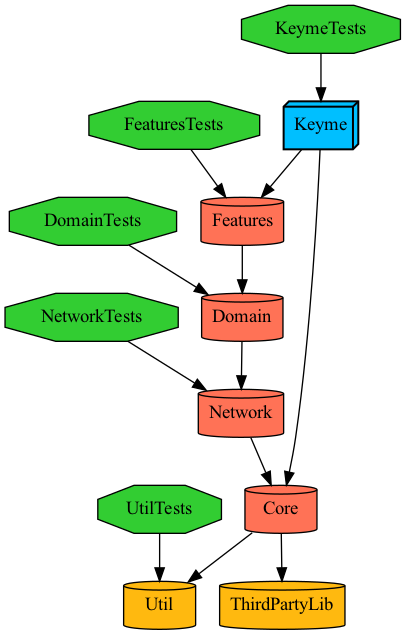
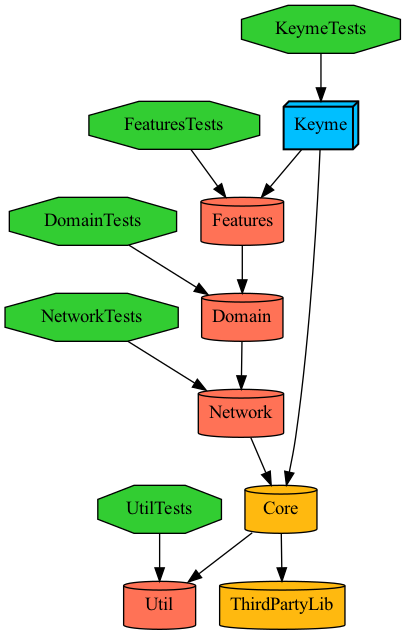
fix #10: Core 모듈 framework 변경

Changed region(s): [[0.2956, 0.8976, 0.5025, 1.0], [0.5911, 0.748, 0.798, 0.8378]]

diff --git a/Projects/Core/Util/Project.swift b/Projects/Core/Util/Project.swift
@@ -9,6 +9,5 @@ import ProjectDescription
 import ProjectDescriptionHelpers
 
 let project = Project.makeModule(
-    name: "Util",
-    isDynamicFramework: true
+    name: "Util"
 )

diff --git a/Projects/Core/Project.swift b/Projects/Core/Project.swift
@@ -14,5 +14,6 @@ let project = Project.makeModule(
         .Util,
         .ThirdPartyLib
     ],
+    isDynamicFramework: true,
     hasTestTarget: false
 )
